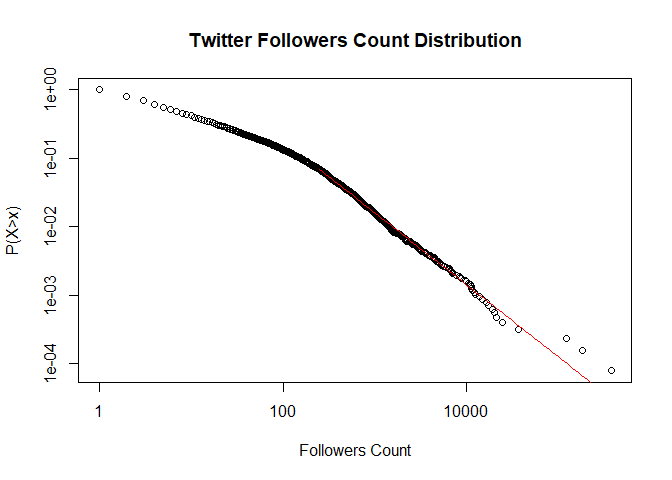
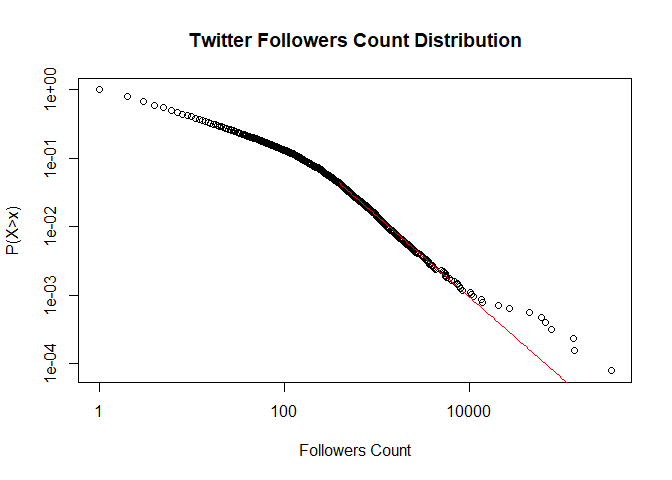
added bootstaping

diff --git a/Power_Law_vs_Lognormal_US_Babynames/Power_Law_vs_Lognormal_US_Babynames.md b/Power_Law_vs_Lognormal_US_Babynames/Power_Law_vs_Lognormal_US_Babynames.md
@@ -45,7 +45,7 @@ head(table)
     ## 15737 Christopher 1910203
     ## 66791      Robert 1731062
 
-Nice, it worked!
+It worked!
 
 Now let's plot the histogram of the baby names and see how it is distributed.
 
@@ -88,8 +88,6 @@ require(poweRlaw)
 ```
 
     ## Loading required package: poweRlaw
-
-    ## Warning: package 'poweRlaw' was built under R version 3.4.2
 
 ``` r
 mm=displ$new(table$count)
@@ -163,13 +161,50 @@ We see that at the tail the function drops down quite a bit. Power-law might not
 Using bootstrapping, we can find out the probability that the data follows a distribution. Bootstraping is sampling the data with replacement to form multiple data samples. Each sample will return a parameter for *α* and *c*. This part takes some time to run.
 
 ``` r
-# bs=bootstrap(mm, no_of_sims = 100, threads = 8)
-# hist(bs$bootstraps[,2], breaks="fd", main = 'Distribution of Xmin')
-# hist(bs$bootstraps[,3], breaks="fd", main = 'Distribution of alpha')
-# plot(jitter(bs$bootstraps[,2], factor=1.2), bs$bootstraps[,3])
-# bs_p=bootstrap_p(mm, no_of_sims = 200, threads=2)
-# bs_p$p
+bs=bootstrap(mm, no_of_sims = 100, threads = 4)
 ```
+
+    ## Some of your data is larger than xmax. The xmax parameter is
+    ##             the upper bound of the xmin search space. You could try increasing
+    ##             it. If the estimated values are below xmax, it's probably OK not to 
+    ##             worry about this.
+
+    ## Expected total run time for 100 sims, using 4 threads is 11200 seconds.
+
+``` r
+hist(bs$bootstraps[,2], breaks="fd", main = 'Distribution of Xmin')
+```
+
+![](Power_Law_vs_Lognormal_US_Babynames_files/figure-markdown_github-ascii_identifiers/unnamed-chunk-6-1.png)
+
+``` r
+hist(bs$bootstraps[,3], breaks="fd", main = 'Distribution of alpha')
+```
+
+![](Power_Law_vs_Lognormal_US_Babynames_files/figure-markdown_github-ascii_identifiers/unnamed-chunk-6-2.png)
+
+``` r
+plot(jitter(bs$bootstraps[,2], factor=1.2), bs$bootstraps[,3])
+```
+
+![](Power_Law_vs_Lognormal_US_Babynames_files/figure-markdown_github-ascii_identifiers/unnamed-chunk-6-3.png)
+
+``` r
+bs_p=bootstrap_p(mm, no_of_sims = 200, threads=2)
+```
+
+    ## Some of your data is larger than xmax. The xmax parameter is
+    ##             the upper bound of the xmin search space. You could try increasing
+    ##             it. If the estimated values are below xmax, it's probably OK not to 
+    ##             worry about this.
+
+    ## Expected total run time for 200 sims, using 2 threads is 44900 seconds.
+
+``` r
+bs_p$p
+```
+
+    ## [1] 0.44
 
 The above chunk of code uses bootstrapping to find a distribution of X\_min and alpha and plots the distributions. However it takes too long to run, so it is left commented at the moment. bs\_p$p shows the p value of the distribution being a power-law distribution. High p value means the disitribution is likely to follow power-law.
 
@@ -202,8 +237,6 @@ Let's see if Twitter user's attributes (i.e. friends count, followers count) fol
 Log in to Twitter using the 'twitteR' package using your log in. The code is not shown.
 
     ## Loading required package: twitteR
-
-    ## Warning: package 'twitteR' was built under R version 3.4.2
 
     ## 
     ## Attaching package: 'twitteR'
@@ -270,10 +303,10 @@ mm=displ$new(twtable$follower_count[twtable$follower_count!=0])
 ```
 
     ## $pars
-    ## [1] 1.367268
+    ## [1] 1.374162
     ## 
     ## $value
-    ## [1] 53530.14
+    ## [1] 52290.23
     ## 
     ## $counts
     ## function gradient 
@@ -293,16 +326,16 @@ mm=displ$new(twtable$follower_count[twtable$follower_count!=0])
 ```
 
     ## $gof
-    ## [1] 0.02706097
+    ## [1] 0.02471744
     ## 
     ## $xmin
-    ## [1] 250
+    ## [1] 392
     ## 
     ## $pars
-    ## [1] 2.053771
+    ## [1] 2.185089
     ## 
     ## $ntail
-    ## [1] 876
+    ## [1] 556
     ## 
     ## $distance
     ## [1] "ks"
@@ -324,10 +357,10 @@ mm=displ$new(twtable$friends_count[twtable$friends_count!=0])
 ```
 
     ## $pars
-    ## [1] 1.287557
+    ## [1] 1.288549
     ## 
     ## $value
-    ## [1] 81625.13
+    ## [1] 80561.71
     ## 
     ## $counts
     ## function gradient 
@@ -347,16 +380,16 @@ mm=displ$new(twtable$friends_count[twtable$friends_count!=0])
 ```
 
     ## $gof
-    ## [1] 0.04985248
+    ## [1] 0.05041755
     ## 
     ## $xmin
-    ## [1] 212
+    ## [1] 540
     ## 
     ## $pars
-    ## [1] 2.216048
+    ## [1] 2.616956
     ## 
     ## $ntail
-    ## [1] 1865
+    ## [1] 683
     ## 
     ## $distance
     ## [1] "ks"
